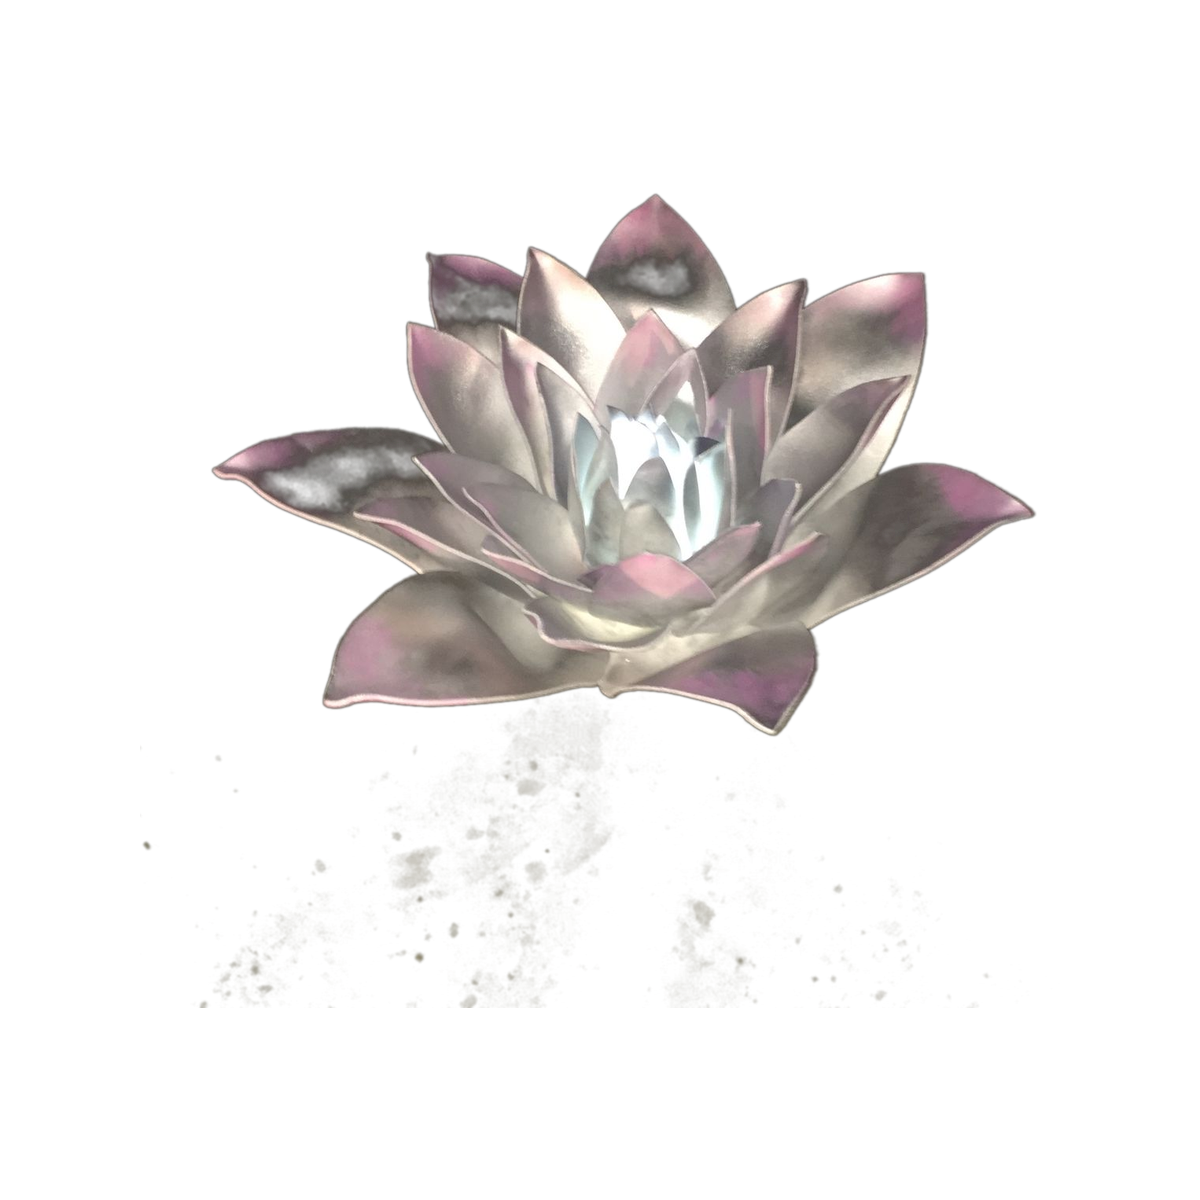
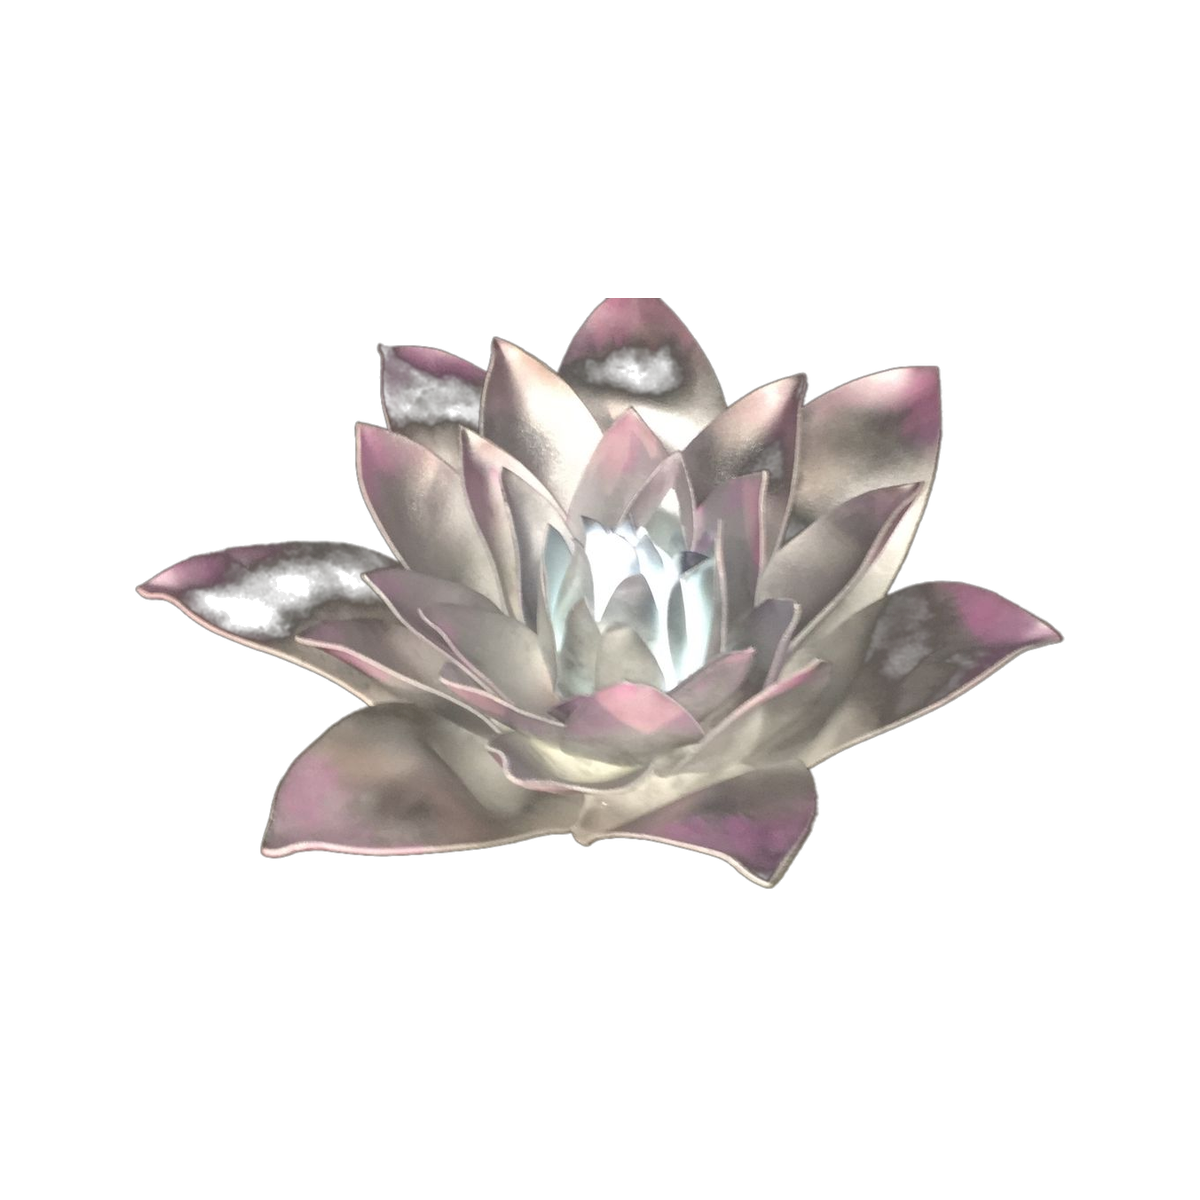
bhgdfbdf

Changed region(s): [[0.1233, 0.1542, 0.8942, 0.7708], [0.4317, 0.7708, 0.4625, 0.8017], [0.185, 0.8017, 0.2158, 0.8325]]

diff --git a/frontend/src/components/StoreExperience.css b/frontend/src/components/StoreExperience.css
@@ -98,38 +98,26 @@
   min-width: 0;
   min-height: 0;
   padding: 0;
-  border: 1px solid rgba(17, 17, 17, 0.12);
-  border-radius: 24px;
+  border: 1px solid rgba(17, 17, 17, 0.78);
+  border-radius: 22px;
   overflow: hidden;
   display: flex;
   align-items: center;
   justify-content: center;
-  background: linear-gradient(180deg, rgba(255,255,255,0.74), rgba(255,255,255,0.52));
-  backdrop-filter: blur(18px) saturate(145%);
-  -webkit-backdrop-filter: blur(18px) saturate(145%);
+  background: rgba(255, 255, 255, 0.12);
+  backdrop-filter: blur(12px) saturate(120%);
+  -webkit-backdrop-filter: blur(12px) saturate(120%);
   box-shadow:
-    inset 0 1px 0 rgba(255,255,255,0.92),
-    inset 0 -1px 0 rgba(255,255,255,0.35),
-    0 12px 34px rgba(0,0,0,0.08),
-    0 2px 8px rgba(0,0,0,0.05);
+    inset 0 1px 0 rgba(255,255,255,0.34),
+    0 8px 24px rgba(0,0,0,0.06);
   color: #111;
   cursor: pointer;
   -webkit-tap-highlight-color: transparent;
   transform-origin: center;
   transition:
-    transform 240ms cubic-bezier(0.16, 1, 0.3, 1),
-    opacity 160ms ease,
-    box-shadow 240ms cubic-bezier(0.16, 1, 0.3, 1),
-    border-color 240ms cubic-bezier(0.16, 1, 0.3, 1);
-}
-
-.store-tile::after {
-  content: "";
-  position: absolute;
-  inset: 0;
-  border-radius: inherit;
-  pointer-events: none;
-  box-shadow: inset 0 0 0 1px rgba(255,255,255,0.22);
+    transform 220ms cubic-bezier(0.16, 1, 0.3, 1),
+    box-shadow 220ms cubic-bezier(0.16, 1, 0.3, 1),
+    background-color 220ms cubic-bezier(0.16, 1, 0.3, 1);
 }
 
 .store-tile:focus,
@@ -144,33 +132,11 @@
 
 .store-tile__shine {
   position: absolute;
-  top: -18%;
-  left: -32%;
-  width: 56%;
-  height: 48%;
-  background: linear-gradient(135deg, rgba(255,255,255,0.82), rgba(255,255,255,0));
-  filter: blur(8px);
-  opacity: 0.78;
-  pointer-events: none;
-  transform: rotate(-12deg);
-}
-
-.store-tile__tap-indicator {
-  position: absolute;
-  top: 12px;
-  right: 12px;
-  z-index: 3;
-  padding: 5px 9px;
-  border-radius: 999px;
-  background: rgba(255,255,255,0.72);
-  border: 1px solid rgba(17,17,17,0.08);
-  color: rgba(17,17,17,0.58);
-  font-family: "IBM Plex Mono", monospace;
-  font-size: 10px;
-  font-weight: 600;
-  line-height: 1;
-  letter-spacing: 0.04em;
-  text-transform: uppercase;
+  top: 0;
+  left: 0;
+  right: 0;
+  height: 34%;
+  background: linear-gradient(180deg, rgba(255,255,255,0.28), rgba(255,255,255,0));
   pointer-events: none;
 }
 
@@ -180,7 +146,7 @@
   display: flex;
   align-items: center;
   justify-content: center;
-  padding: 14%;
+  padding: 12% 12% 19%;
 }
 
 .store-tile__art {
@@ -195,27 +161,24 @@
 }
 
 .store-tile__art--swag {
-  transform: scale(0.96);
+  transform: scale(0.94);
 }
 
 .store-tile__label {
   position: absolute;
   left: 50%;
-  bottom: 12px;
+  bottom: 14px;
   z-index: 3;
   transform: translateX(-50%);
-  min-width: 0;
-  max-width: calc(100% - 28px);
-  padding: 8px 12px 9px;
-  border-radius: 999px;
-  background: rgba(255,255,255,0.76);
-  border: 1px solid rgba(17,17,17,0.08);
+  width: calc(100% - 24px);
   color: #111;
+  text-align: center;
   font-family: "IBM Plex Mono", monospace;
   font-size: 11px;
   font-weight: 700;
-  line-height: 1;
-  letter-spacing: 0.04em;
+  line-height: 1.1;
+  letter-spacing: 0.08em;
+  text-transform: uppercase;
   white-space: nowrap;
   overflow: hidden;
   text-overflow: ellipsis;
@@ -238,20 +201,19 @@
 }
 
 .store-tile--skeleton {
-  background: rgba(255,255,255,0.52);
-  border-radius: 24px;
-  opacity: 0.6;
+  border-radius: 22px;
+  border: 1px solid rgba(17,17,17,0.18);
+  background: rgba(255,255,255,0.2);
+  opacity: 0.7;
 }
 
 @media (hover: hover) and (pointer: fine) {
   .store-tile:hover {
-    transform: translateY(-4px);
-    border-color: rgba(17, 17, 17, 0.18);
+    transform: translateY(-3px);
     box-shadow:
-      inset 0 1px 0 rgba(255,255,255,0.96),
-      inset 0 -1px 0 rgba(255,255,255,0.4),
-      0 18px 42px rgba(0,0,0,0.12),
-      0 0 0 1px rgba(255,255,255,0.55);
+      inset 0 1px 0 rgba(255,255,255,0.42),
+      0 14px 28px rgba(0,0,0,0.08);
+    background: rgba(255,255,255,0.16);
   }
 
   .store-tabs__item:hover {
@@ -282,22 +244,16 @@
   }
 
   .store-tile {
-    border-radius: 22px;
+    border-radius: 20px;
   }
 
   .store-tile__art-wrap {
-    padding: 13%;
+    padding: 11% 11% 19%;
   }
 
   .store-tile__label {
-    bottom: 10px;
+    bottom: 12px;
     font-size: 10px;
-    padding: 7px 11px 8px;
-  }
-
-  .store-tile__tap-indicator {
-    top: 10px;
-    right: 10px;
   }
 }
 
@@ -312,6 +268,6 @@
   }
 
   .store-tile {
-    border-radius: 20px;
+    border-radius: 18px;
   }
 }

diff --git a/frontend/src/components/StoreDirectory.tsx b/frontend/src/components/StoreDirectory.tsx
@@ -65,16 +65,8 @@ export function StoreDirectory({
               type="button"
               className="store-tile"
               key={shop.id}
-              initial={{
-                opacity: 0,
-                y: 18,
-                scale: 0.985,
-              }}
-              animate={{
-                opacity: 1,
-                y: 0,
-                scale: 1,
-              }}
+              initial={{ opacity: 0, y: 18, scale: 0.985 }}
+              animate={{ opacity: 1, y: 0, scale: 1 }}
               transition={{
                 duration: 0.46,
                 delay: index * 0.06,
@@ -84,9 +76,6 @@ export function StoreDirectory({
               aria-label={`Открыть магазин ${name}`}
             >
               <span className="store-tile__shine" aria-hidden="true" />
-              <span className="store-tile__tap-indicator" aria-hidden="true">
-                open
-              </span>
               {artwork ? (
                 <div className="store-tile__art-wrap">
                   <img
